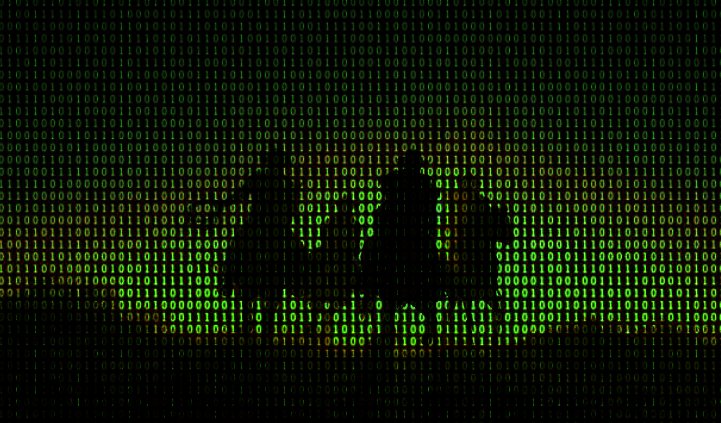
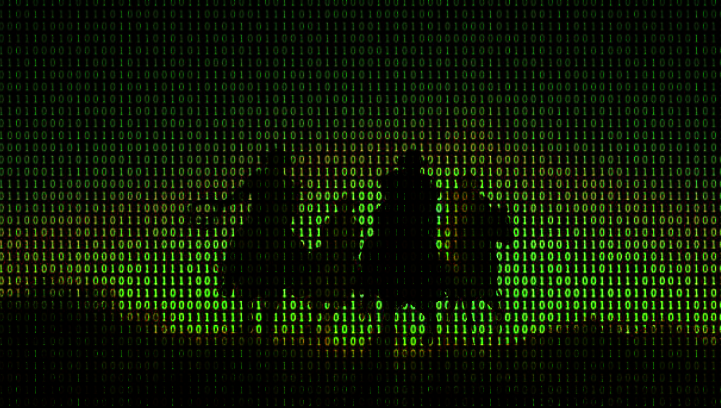
It fits the transition now!!

Changed region(s): [[0.0, 0.0882, 1.0, 0.8824], [0.7628, 0.8824, 0.7933, 0.9118]]

diff --git a/index.html b/index.html
@@ -41,7 +41,7 @@
     <header>
         <nav id="nav_menu">
             <ul>
-                <li><a href="index.html" class="transition-link" data-transition="brian-portfolio/images/4cowboys-1.png">Home</a></li>
+                <li><a href="index.html" class="transition-link" data-transition="brian-portfolio/images/Fast_transition.gif">Home</a></li>
                 <li><a href="ben-portfolio/ben-index.html" class="transition-link" data-transition="brian-portfolio/images/Fast_transition.gif">Ben</a></li>
                 <li><a href="randall-portfolio/randall-index.html" class="transition-link" data-transition="brian-portfolio/images/Fast_transition.gif">Randall</a></li>
                 <li><a href="jessica-portfolio/jessica-index.html" class="transition-link" data-transition="brian-portfolio/images/Fast_transition.gif">Jessica</a></li>
